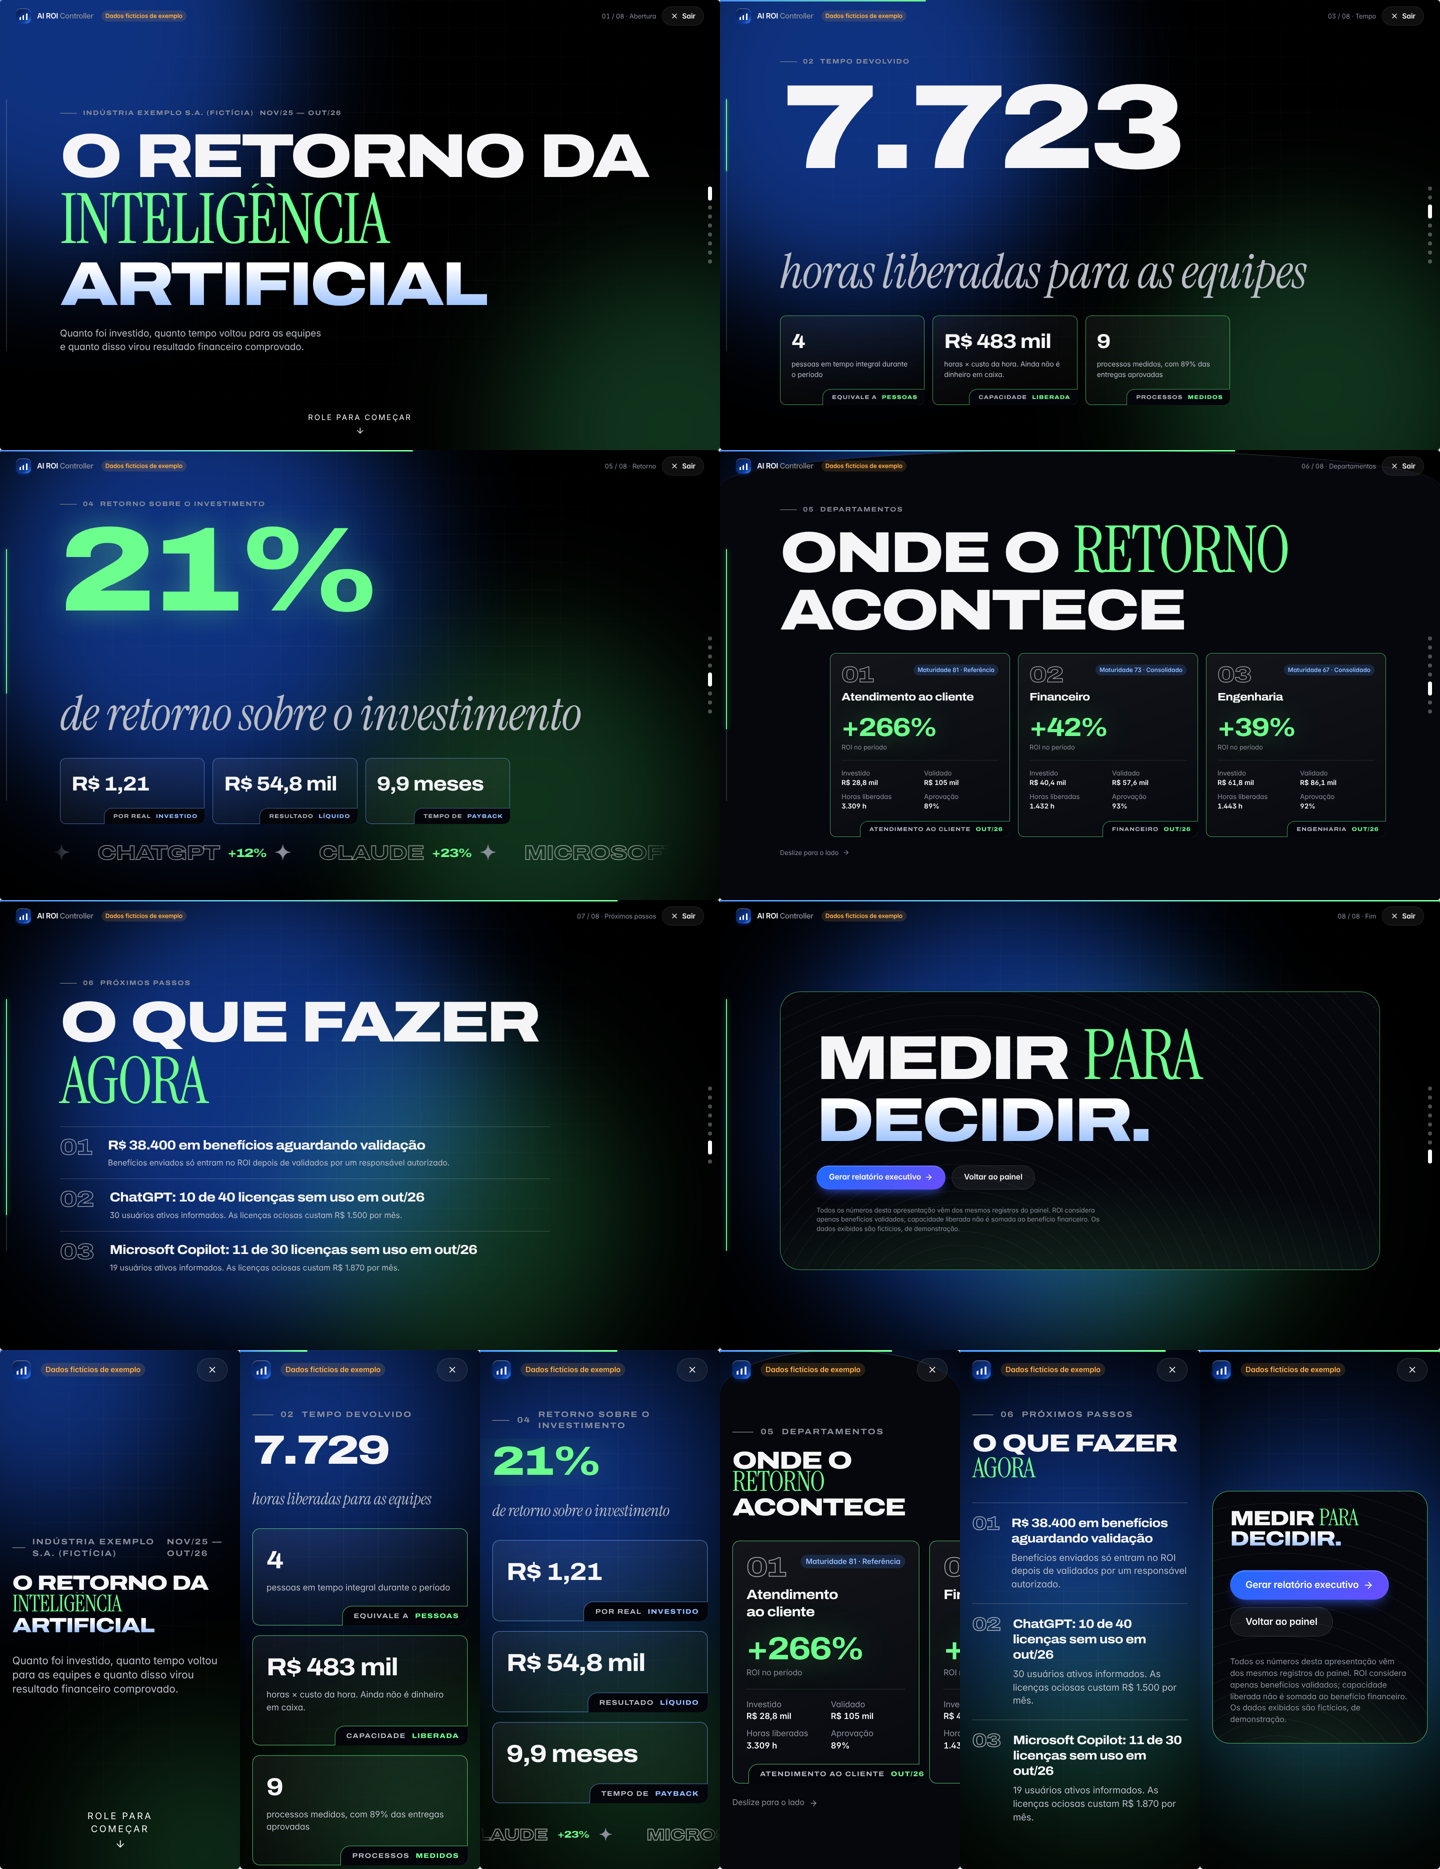
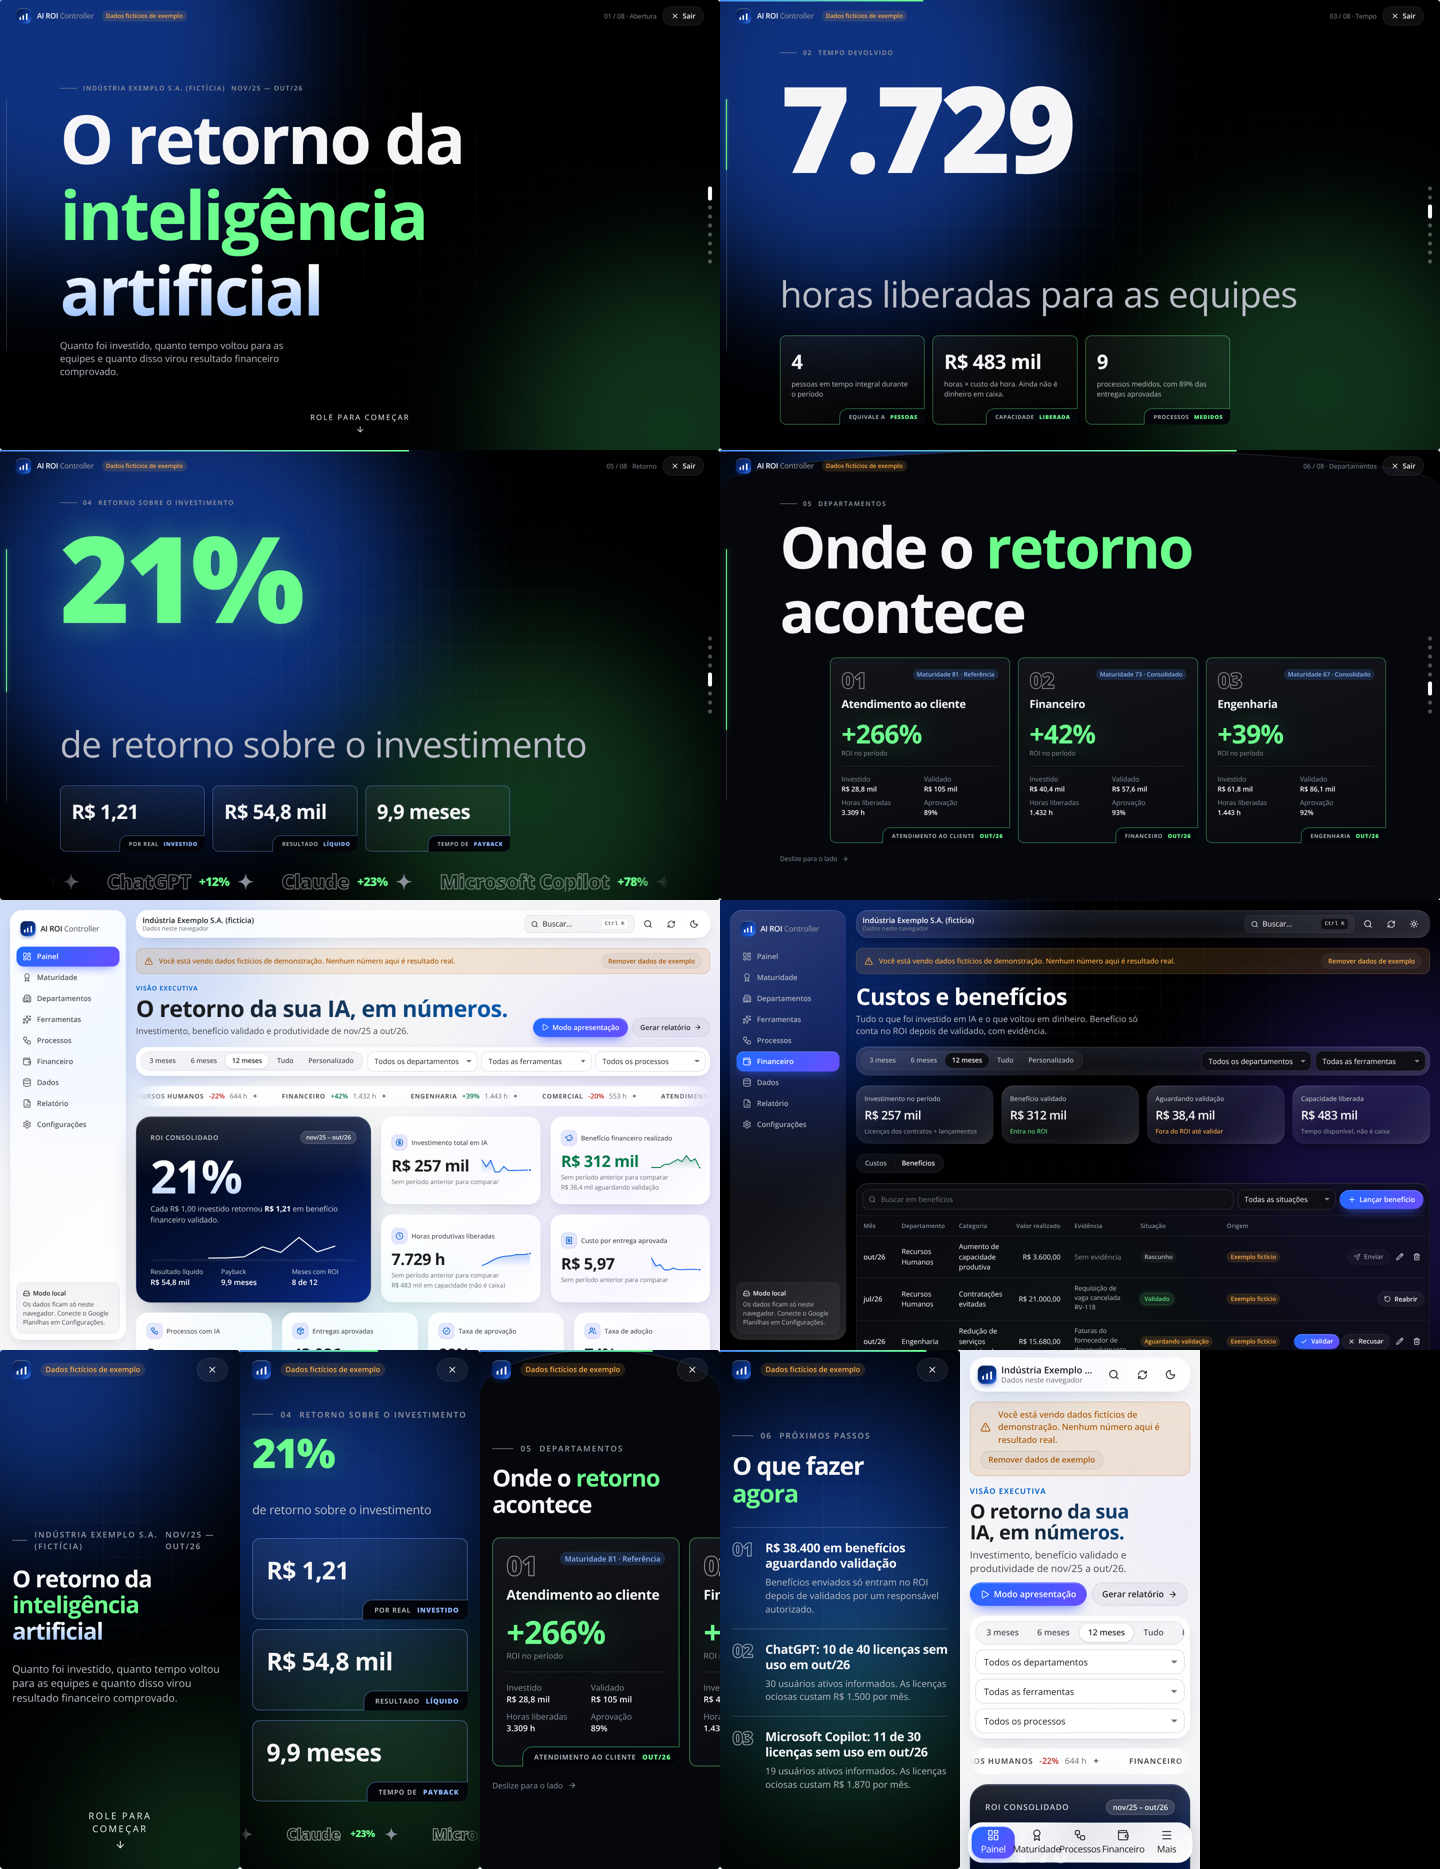
Use Open Sans across the app
Replaces the wide display and serif accent faces with a single family:
bold main headlines, regular-weight secondary lines, normal casing and
spacing. Accent words in the presentation are now marked by colour only.

Claude-Session: https://claude.ai/code/session_01NoKGcqvuqHSb1bMKeExHwn

diff --git a/ai-roi-controller/src/app/globals.css b/ai-roi-controller/src/app/globals.css
@@ -1,8 +1,5 @@
 @import "tailwindcss";
-@import "@fontsource-variable/inter";
-@import "@fontsource-variable/archivo/standard.css";
-@import "@fontsource/instrument-serif/400.css";
-@import "@fontsource/instrument-serif/400-italic.css";
+@import "@fontsource-variable/open-sans/wght.css";
 
 /* ------------------------------------------------------------------
    AI ROI Controller — sistema visual
@@ -52,7 +49,7 @@
   --chart-1: #0f62e6;
   --chart-2: #8a97b3;
   --chart-grid: rgba(13, 27, 62, 0.08);
-  --font: -apple-system, BlinkMacSystemFont, "SF Pro Text", "Inter Variable", "Inter", "Segoe UI", Roboto, sans-serif;
+  --font: "Open Sans Variable", "Open Sans", -apple-system, BlinkMacSystemFont, "Segoe UI", Roboto, sans-serif;
   --r-sm: 12px;
   --r-md: 16px;
   --r-lg: 24px;
@@ -124,9 +121,7 @@ body {
   font-family: var(--font);
   font-size: 15px;
   line-height: 1.45;
-  letter-spacing: -0.006em;
   -webkit-font-smoothing: antialiased;
-  font-feature-settings: "cv11", "ss01";
 }
 .backdrop { position: fixed; inset: 0; z-index: 0; overflow: hidden; pointer-events: none; }
 .backdrop i { position: absolute; border-radius: 50%; filter: blur(100px); will-change: transform; animation: drift 26s ease-in-out infinite alternate; }
@@ -137,7 +132,7 @@ body {
 .backdrop i:nth-child(2) { width: 46vw; height: 46vw; right: -12vw; top: 18vh; background: var(--bg-orb-2); }
 .backdrop i:nth-child(3) { width: 40vw; height: 40vw; left: 28vw; bottom: -26vw; background: var(--bg-orb-3); }
 
-h1, h2, h3 { letter-spacing: -0.022em; text-wrap: balance; }
+h1, h2, h3 { letter-spacing: -0.012em; text-wrap: balance; }
 .num { font-variant-numeric: tabular-nums; }
 ::selection { background: var(--accent-soft); }
 :focus-visible { outline: 2px solid var(--accent); outline-offset: 2px; border-radius: 6px; }
@@ -301,7 +296,7 @@ textarea.input { min-height: 76px; resize: vertical; }
 @media print { .hero { animation: none; } .backdrop { display: none; } .solid { -webkit-backdrop-filter: none; backdrop-filter: none; } }
 
 /* Títulos de bloco com presença, na linha editorial das referências. */
-#conteudo h2:not(.mega) { font-size: 19px; letter-spacing: -0.022em; }
+#conteudo h2:not(.mega) { font-size: 19px; letter-spacing: -0.012em; }
 .eyebrow { font-size: 12.5px; font-weight: 650; letter-spacing: 0.09em; text-transform: uppercase; color: var(--accent-ink); }
 :root[data-theme="dark"] .backdrop::after { opacity: 0.9; background-image: linear-gradient(var(--line) 1px, transparent 1px), linear-gradient(90deg, var(--line) 1px, transparent 1px); background-size: 44px 44px; }
 :root[data-theme="dark"] .grad-text { background: linear-gradient(120deg, #fff 30%, #8fb8ff 110%); -webkit-background-clip: text; background-clip: text; }
@@ -311,10 +306,10 @@ textarea.input { min-height: 76px; resize: vertical; }
    Linguagem editorial: tipo largo em caixa alta, faixas em movimento,
    revelações na rolagem e o modo apresentação em tela cheia.
    ================================================================== */
-:root { --font-display: "Archivo Variable", "Inter Variable", -apple-system, "Segoe UI", sans-serif; }
-.display { font-family: var(--font-display); font-stretch: 112%; font-weight: 750; letter-spacing: -0.03em; }
-.wide { font-family: var(--font-display); font-stretch: 125%; font-weight: 800; text-transform: uppercase; letter-spacing: -0.02em; line-height: 0.92; }
-.eyebrow { font-family: var(--font-display); font-stretch: 118%; }
+:root { --font-display: var(--font); }
+.display { font-family: var(--font-display); font-weight: 700; letter-spacing: -0.02em; }
+.wide { font-family: var(--font-display); font-weight: 800; letter-spacing: -0.025em; line-height: 1; }
+
 
 /* Brilho que acompanha o ponteiro nos cartões clicáveis. */
 .lift { position: relative; overflow: hidden; }
@@ -344,10 +339,10 @@ textarea.input { min-height: 76px; resize: vertical; }
 .story-bg::after { content: ""; position: absolute; inset: 0; background-image: linear-gradient(rgba(255, 255, 255, 0.05) 1px, transparent 1px), linear-gradient(90deg, rgba(255, 255, 255, 0.05) 1px, transparent 1px); background-size: 56px 56px; mask-image: radial-gradient(ellipse at 50% 40%, #000, transparent 75%); -webkit-mask-image: radial-gradient(ellipse at 50% 40%, #000, transparent 75%); }
 .scene { position: relative; overflow-x: clip; min-height: 100dvh; scroll-snap-align: start; display: flex; flex-direction: column; justify-content: center; padding: 96px max(20px, env(safe-area-inset-right, 0px)) 72px max(20px, env(safe-area-inset-left, 0px)); }
 .scene-inner { width: 100%; max-width: 1200px; margin: 0 auto; }
-.scene-no { font-family: var(--font-display); font-stretch: 118%; font-weight: 700; font-size: 13px; letter-spacing: 0.14em; text-transform: uppercase; color: var(--ink-3); display: flex; align-items: center; gap: 12px; }
+.scene-no { font-family: var(--font-display); font-weight: 650; font-size: 13px; letter-spacing: 0.14em; text-transform: uppercase; color: var(--ink-3); display: flex; align-items: center; gap: 12px; }
 .scene-no::before { content: ""; width: 34px; height: 1px; background: var(--ink-3); }
-.mega { font-family: var(--font-display); font-stretch: 125%; font-weight: 850; letter-spacing: -0.045em; line-height: 0.86; font-size: clamp(64px, 17vw, 240px); font-variant-numeric: tabular-nums; }
-.mega-title { font-size: clamp(32px, 8.6vw, 150px); text-transform: uppercase; }
+.mega { font-family: var(--font-display); font-weight: 800; letter-spacing: -0.04em; line-height: 0.98; font-size: clamp(64px, 17vw, 240px); font-variant-numeric: tabular-nums; }
+.mega-title { font-size: clamp(38px, 9.4vw, 150px); text-transform: none; letter-spacing: -0.035em; font-weight: 700; }
 .outline { color: transparent; -webkit-text-stroke: 1.5px rgba(255, 255, 255, 0.55); }
 .glow-pos { color: var(--pos); text-shadow: 0 0 60px rgba(109, 255, 142, 0.35); }
 .glow-neg { color: var(--neg); text-shadow: 0 0 60px rgba(255, 116, 104, 0.3); }
@@ -368,12 +363,12 @@ textarea.input { min-height: 76px; resize: vertical; }
 
 /* ---------- Apresentação: tipo misto, molduras com aba, arco, abertura e painel final ---------- */
 .story { --frame: rgba(109, 255, 142, 0.6); --ease: cubic-bezier(0.65, 0.05, 0, 1); }
-.serif { font-family: "Instrument Serif", Georgia, "Times New Roman", serif; font-weight: 400; font-stretch: normal; letter-spacing: -0.025em; text-transform: uppercase; color: var(--pos); font-size: 1.12em; line-height: 0.8; }
+.serif { color: var(--pos); }
 .serif-blue { color: #8fb8ff; }
-.sub-serif { font-family: "Instrument Serif", Georgia, serif; font-weight: 400; font-stretch: normal; letter-spacing: -0.01em; text-transform: none; font-size: 0.4em; line-height: 1; color: var(--ink-2); font-style: italic; }
+.sub-serif { display: inline-block; font-weight: 400; letter-spacing: -0.015em; font-size: 0.3em; line-height: 1.15; color: var(--ink-2); padding-top: 0.5em; }
 .frame { position: relative; border: 1px solid var(--frame); border-radius: 12px; background: linear-gradient(160deg, rgba(255, 255, 255, 0.06), rgba(255, 255, 255, 0.01)); padding: 22px 22px 50px; transition: border-color 0.4s, transform 0.75s var(--ease), background 0.4s; }
 .frame:hover { border-color: var(--pos); background: linear-gradient(160deg, rgba(109, 255, 142, 0.1), rgba(255, 255, 255, 0.01)); transform: translateY(-4px); }
-.frame-tab { position: absolute; right: -1px; bottom: -1px; display: flex; align-items: center; gap: 10px; padding: 8px 14px 7px 18px; background: #03050a; border-top: 1px solid var(--frame); border-left: 1px solid var(--frame); border-top-left-radius: 16px; border-bottom-right-radius: 12px; font-family: var(--font-display); font-stretch: 116%; font-weight: 700; font-size: 11px; letter-spacing: 0.1em; text-transform: uppercase; color: var(--ink-2); white-space: nowrap; max-width: calc(100% - 24px); }
+.frame-tab { position: absolute; right: -1px; bottom: -1px; display: flex; align-items: center; gap: 10px; padding: 8px 14px 7px 18px; background: #03050a; border-top: 1px solid var(--frame); border-left: 1px solid var(--frame); border-top-left-radius: 16px; border-bottom-right-radius: 12px; font-family: var(--font-display); font-weight: 650; font-size: 11px; letter-spacing: 0.08em; text-transform: uppercase; color: var(--ink-2); white-space: nowrap; max-width: calc(100% - 24px); }
 .frame-tab b { color: var(--pos); font-weight: 800; }
 .frame-blue { --frame: rgba(120, 170, 255, 0.55); }
 .frame-blue .frame-tab b { color: #8fb8ff; }
@@ -382,7 +377,7 @@ textarea.input { min-height: 76px; resize: vertical; }
 .story-line i { display: block; width: 100%; height: 100%; transform-origin: 50% 0; transform: scaleY(var(--p, 0)); background: var(--pos); border-radius: 2px; box-shadow: 0 0 12px rgba(109, 255, 142, 0.6); }
 .intro { position: fixed; inset: 0; z-index: 9; display: grid; place-items: center; background: linear-gradient(140deg, #1f6bff, #0a2a8c); color: #fff; transition: transform 0.85s var(--ease); }
 .intro.out { transform: translateY(-101%); }
-.intro-count { font-family: var(--font-display); font-stretch: 125%; font-weight: 850; font-size: clamp(90px, 22vw, 300px); letter-spacing: -0.05em; line-height: 0.85; font-variant-numeric: tabular-nums; }
+.intro-count { font-family: var(--font-display); font-weight: 800; font-size: clamp(90px, 22vw, 300px); letter-spacing: -0.05em; line-height: 0.85; font-variant-numeric: tabular-nums; }
 .panel { position: relative; overflow: hidden; border: 1px solid var(--frame); border-radius: 40px; padding: clamp(28px, 6vw, 72px); background: radial-gradient(120% 90% at 50% 120%, rgba(109, 255, 142, 0.16), transparent 60%), repeating-radial-gradient(circle at 30% 130%, transparent 0 26px, rgba(255, 255, 255, 0.055) 26px 27px), #05070c; }
 @media (prefers-reduced-motion: reduce) { .intro { display: none; } .frame:hover { transform: none; } }
 @media (max-width: 640px) { .story-line { display: none; } .panel { border-radius: 28px; } }

diff --git a/ai-roi-controller/src/app/(app)/apresentacao/page.tsx b/ai-roi-controller/src/app/(app)/apresentacao/page.tsx
@@ -225,7 +225,7 @@ export default function Apresentacao() {
       </Scene>
 
       <Scene id="departamentos" no="05" label="Departamentos" arc>
-        <h2 className="mega mega-title mt-5" style={{ fontSize: "clamp(40px, 8vw, 120px)" }}><Line>Onde o <span className="serif">retorno</span></Line><Line i={1}>acontece</Line></h2>
+        <h2 className="mega mega-title mt-5" style={{ fontSize: "clamp(38px, 8vw, 124px)" }}><Line>Onde o <span className="serif">retorno</span></Line><Line i={1}>acontece</Line></h2>
         <Fade i={2} className="mt-8">
           {depts.length ? (
             <div className="rail" tabIndex={0} aria-label="Departamentos, deslize para o lado">
